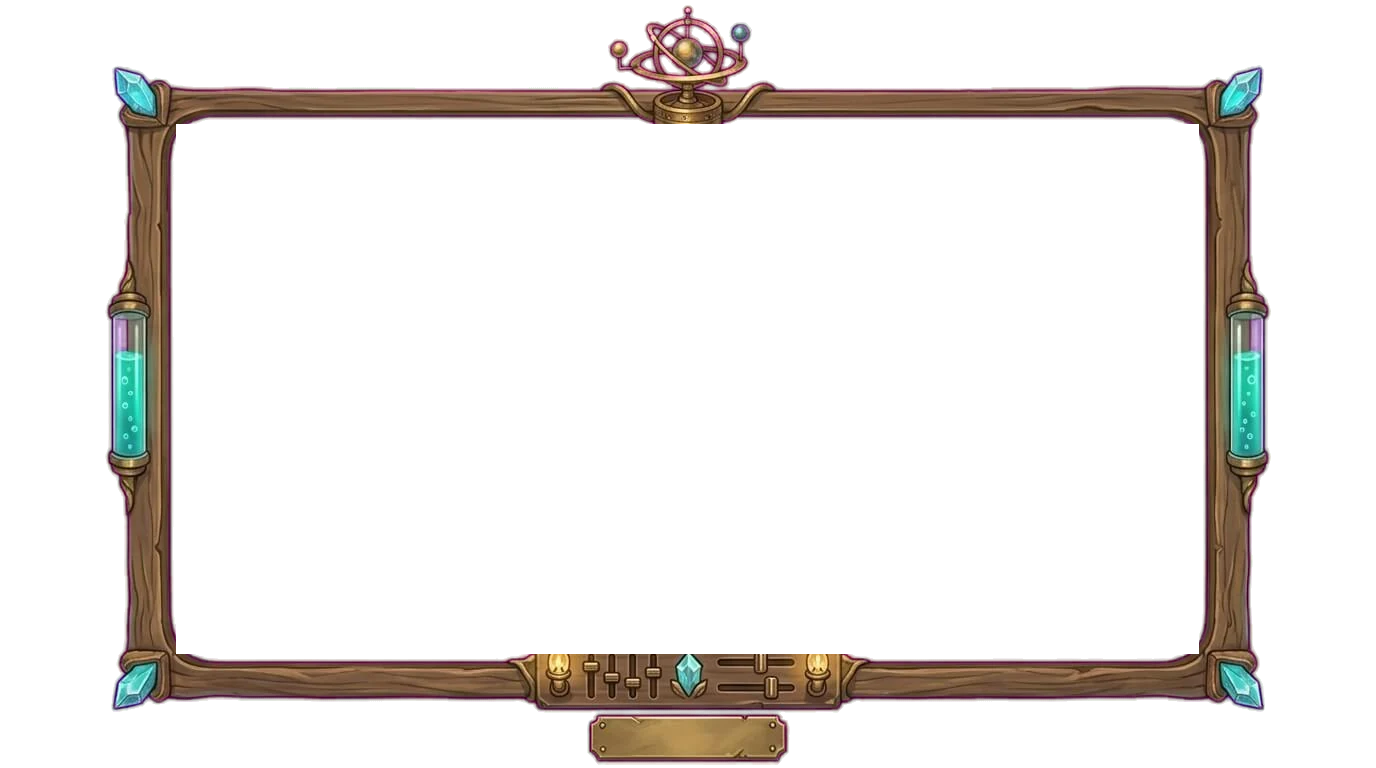
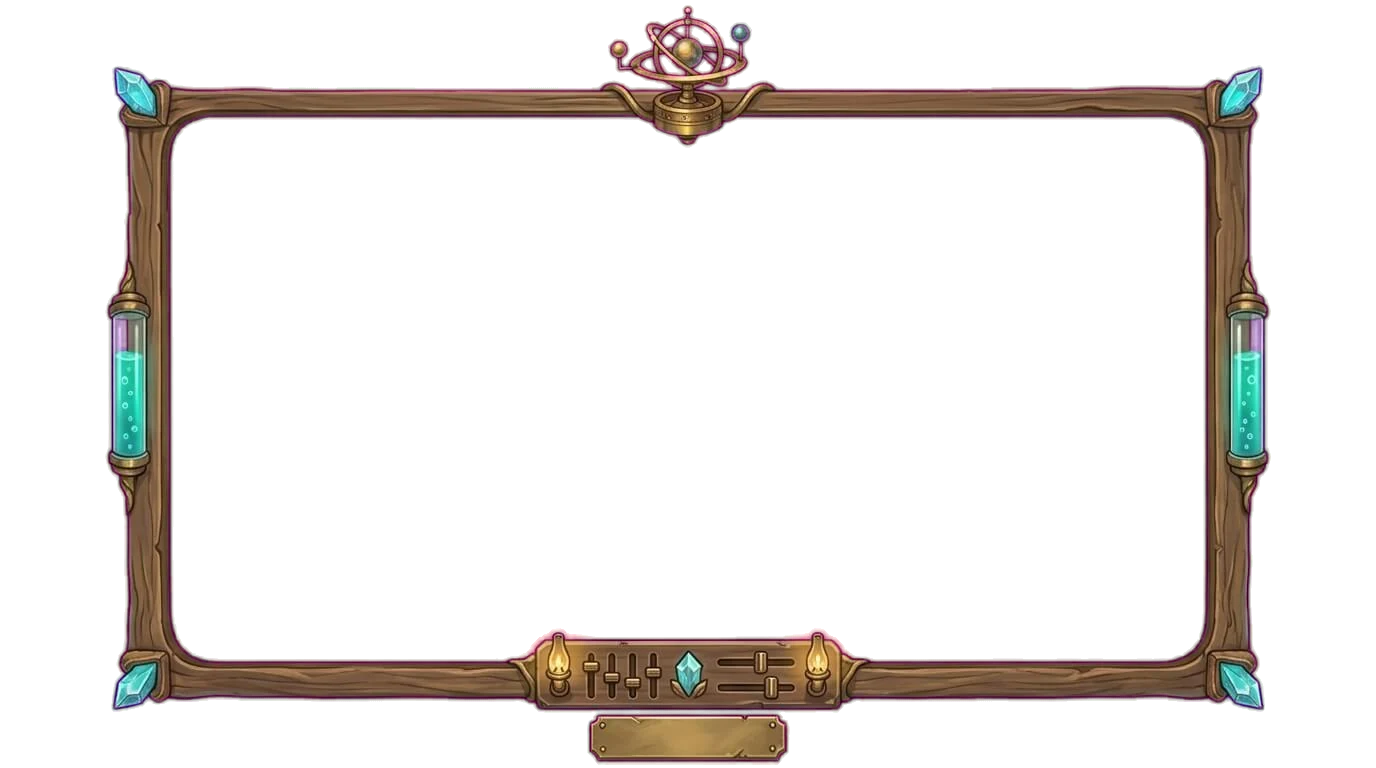
Village: name plates never hidden behind a neighbour; the frame's lamps and orrery whole
A place being pointed at, lit from the legend or picked comes in front of its neighbours, so its name plate shows in
full. The frames are re-cut so the parts that reach into the opening (the control panel's lamps, the orrery's base,
the phone frame's gauges) are no longer clipped (Christian, Oct 19).

Claude-Session: https://claude.ai/code/session_01A6Riaik2o3R51Wm73uZWWr

Changed region(s): [[0.375, 0.8125, 0.625, 0.875], [0.4688, 0.1562, 0.5312, 0.1875], [0.125, 0.1562, 0.1562, 0.1875]]

diff --git a/index.html b/index.html
@@ -27,7 +27,7 @@
 <link rel="stylesheet" href="css/feature.css?v=10">
 <link rel="stylesheet" href="css/logo.css?v=11">
 <link rel="stylesheet" href="css/lake.css?v=4">
-<link rel="stylesheet" href="css/homestead.css?v=11">
+<link rel="stylesheet" href="css/homestead.css?v=12">
 <link rel="stylesheet" href="css/narrator.css?v=33">
 <link rel="stylesheet" href="css/alta.css?v=12">
 <link rel="stylesheet" href="css/marley.css?v=10">
@@ -282,7 +282,7 @@ document.documentElement.classList.add('night-page');})();</script>
 <script src="js/audio-rules.js?v=1" defer></script>
 <script src="js/play-inline.js?v=1795700000" defer></script>
 <script src="js/lake.js?v=4" defer></script>
-<script src="js/homestead.js?v=9" defer></script>
+<script src="js/homestead.js?v=10" defer></script>
 <script src="assets/narrator/resolve.js?v=8" defer></script>
 <script src="js/narrator.js?v=45" defer></script>
 <script src="js/alta.js?v=18" defer></script>

diff --git a/js/homestead.js b/js/homestead.js
@@ -114,7 +114,7 @@
   // top, the village in its opening, cropped a little to fit; the name on the frame's brass plaque.
   var win = document.createElement('div'); win.className = 'hs-window';
   win.innerHTML = '<div class="hs-view"></div><picture class="hs-frame" aria-hidden="true">' +
-    '<source media="(max-width: 719px)" srcset="' + A + 'frame-phone.webp' + VER + '"><img src="' + A + 'frame-wide.webp' + VER + '" alt=""></picture>' +
+    '<source media="(max-width: 719px)" srcset="' + A + 'frame-phone.webp?v=2"><img src="' + A + 'frame-wide.webp?v=2" alt=""></picture>' +
     '<span class="hs-plaque" aria-hidden="true">Lake Home</span>';
   win.firstChild.appendChild(stage);
   root.appendChild(win);

diff --git a/css/homestead.css b/css/homestead.css
@@ -195,3 +195,7 @@ html.night-page .hs-legend button:hover,html.night-page .hs-legend button:focus-
   .hs-legend{flex-wrap:nowrap;justify-content:flex-start;overflow-x:auto;scrollbar-width:none;padding:2px 12px 4px}.hs-legend::-webkit-scrollbar{display:none}
   .hs-legend button{flex:none}.hs-bubble{max-width:78%}}
 @media (prefers-reduced-motion:reduce){.hs-bubble,.hs-spot,.hs-legend button{transition:none}.hs-show-btn{animation:none}}
+
+/* a place being pointed at (or lit from the legend, or picked) comes in front of its neighbours, so its name plate is
+   never hidden behind the building below it */
+.hs-place:hover,.hs-place:focus-visible,.hs-place.lit,.hs-place.picked{z-index:2600!important}
